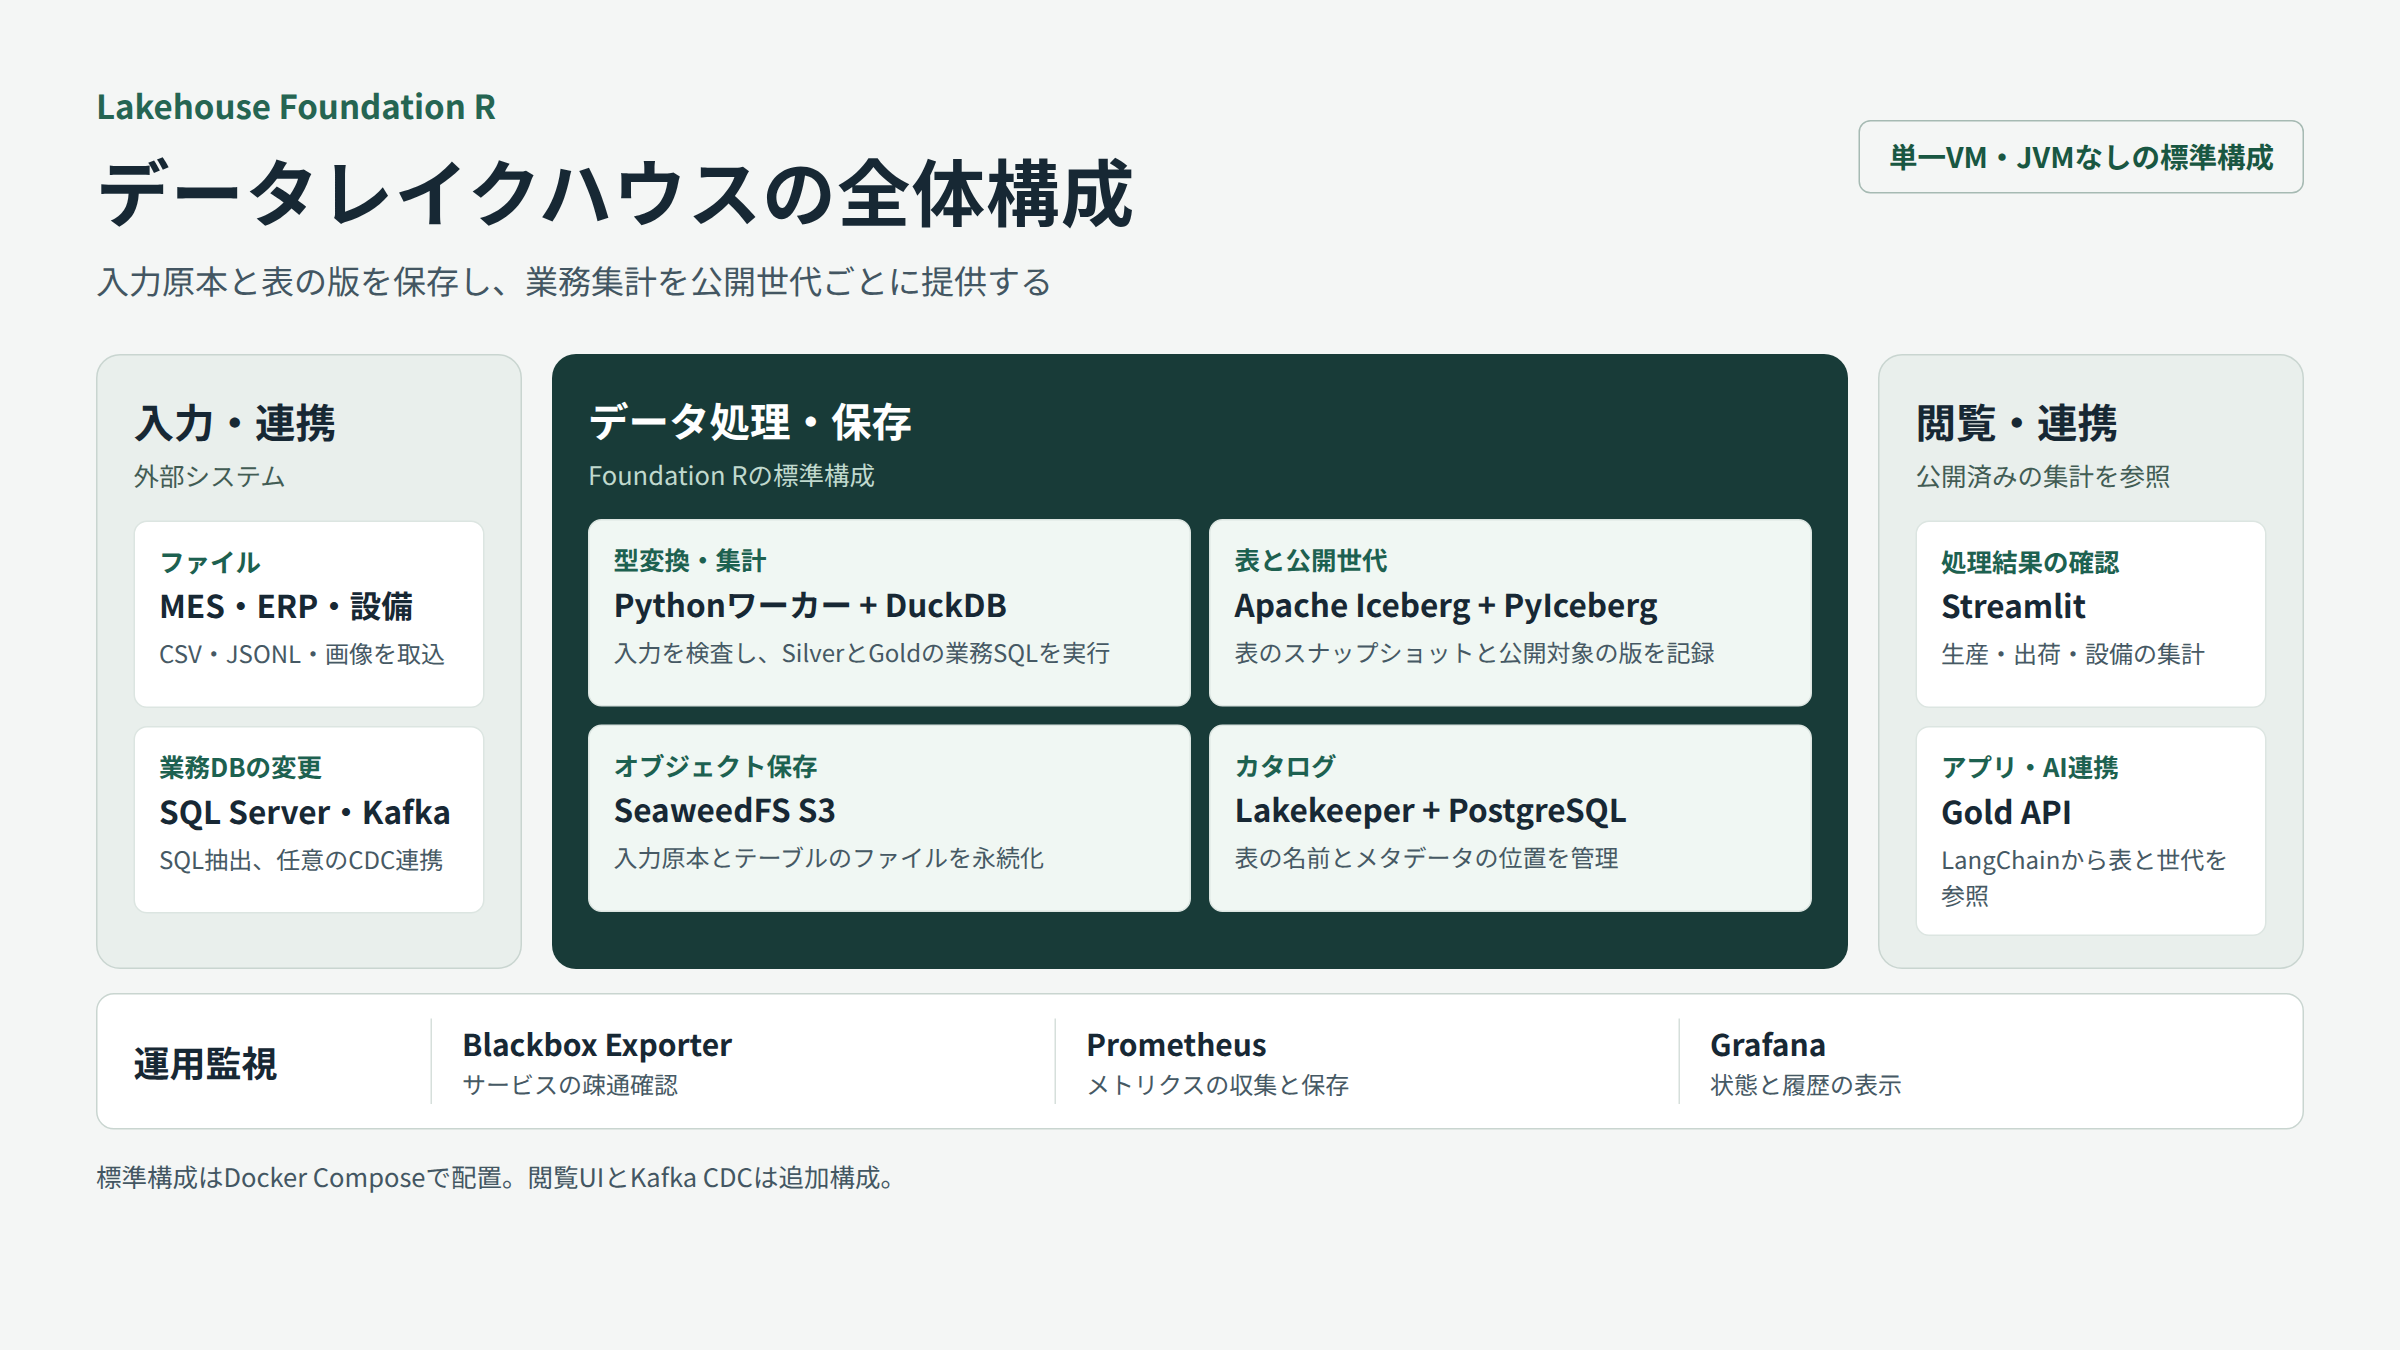
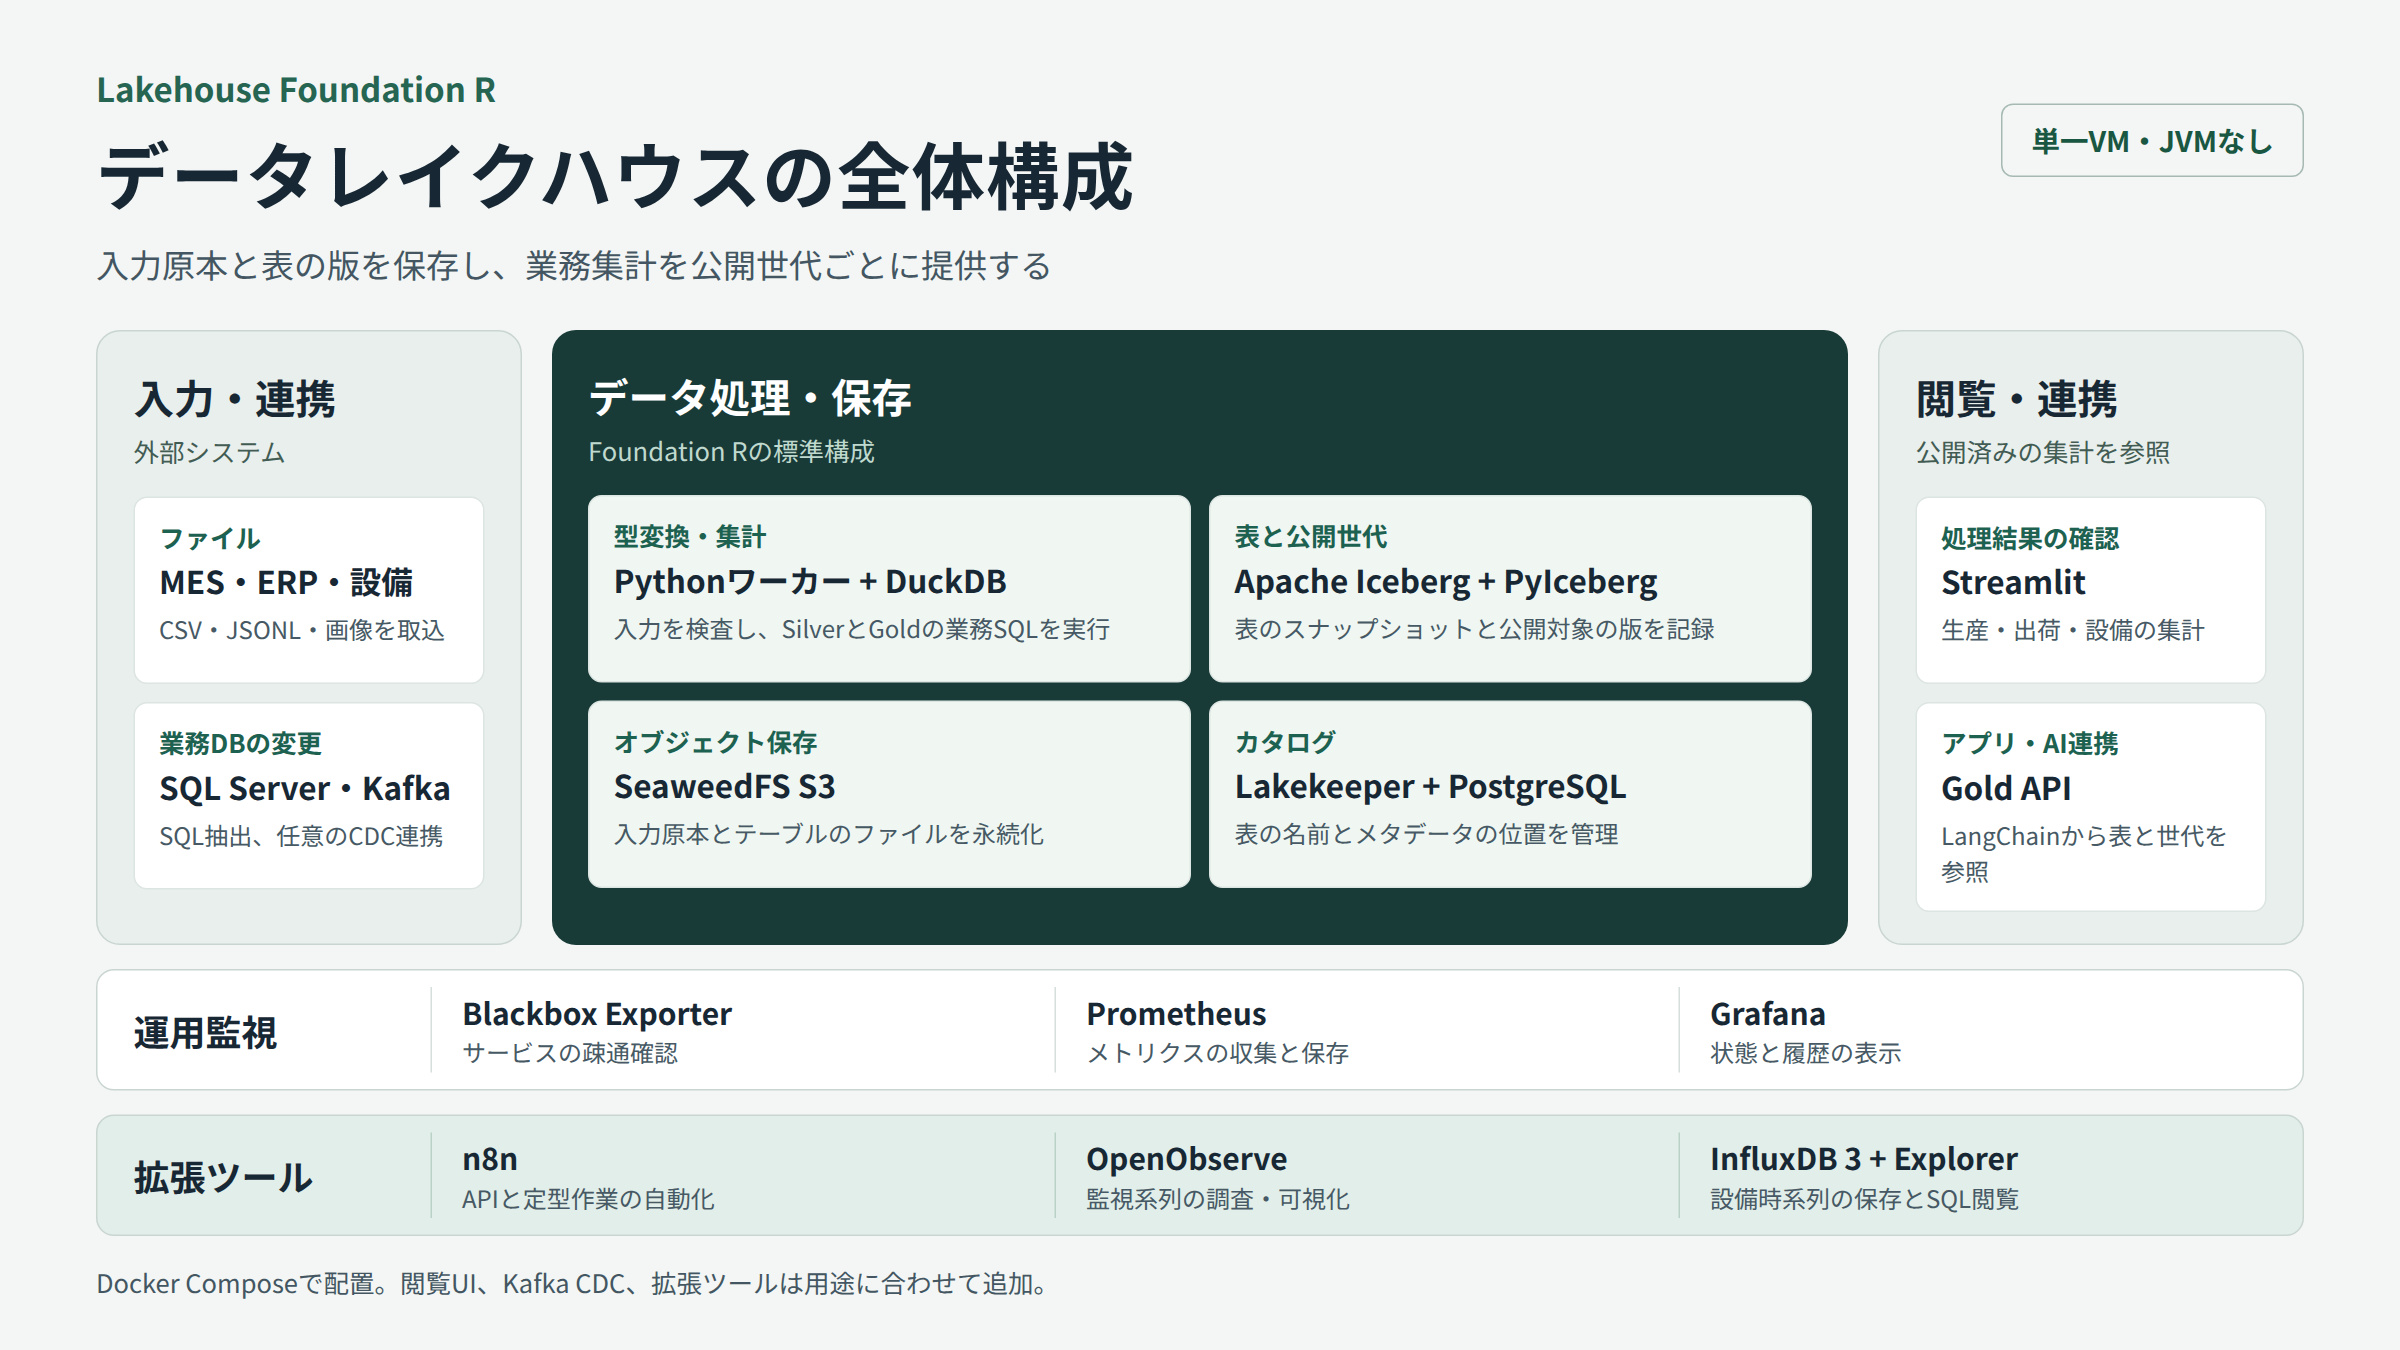
Update the presentation architecture for the tools suite

diff --git a/docs/native/images/foundation-r-overview.html b/docs/native/images/foundation-r-overview.html
@@ -15,7 +15,7 @@
     .slide {
       width: 1600px;
       height: 900px;
-      padding: 54px 64px 35px;
+      padding: 43px 64px 30px;
     }
     header { display: flex; justify-content: space-between; align-items: start; }
     .product { color: #256552; font-size: 22px; font-weight: 700; }
@@ -34,10 +34,10 @@
       display: grid;
       grid-template-columns: 284px 1fr 284px;
       gap: 20px;
-      margin-top: 33px;
+      margin-top: 28px;
     }
     .edge, .core {
-      min-height: 405px;
+      min-height: 394px;
       padding: 24px 24px 21px;
       border-radius: 16px;
     }
@@ -65,11 +65,13 @@
       display: grid;
       grid-template-columns: 222px repeat(3, 1fr);
       align-items: center;
-      min-height: 91px;
+      min-height: 81px;
       border: 1px solid #c9d5d0;
       border-radius: 12px;
       background: #fff;
     }
+    .services { background: #e2eee9; }
+    .services .instrument { border-color: #b9d2c7; }
     .observability h2 { padding-left: 24px; font-size: 24px; }
     .instrument { padding: 2px 20px; border-left: 1px solid #d6dfdb; }
     .instrument strong { display: block; font-size: 20px; }
@@ -85,7 +87,7 @@
         <h1>データレイクハウスの全体構成</h1>
         <div class="summary">入力原本と表の版を保存し、業務集計を公開世代ごとに提供する</div>
       </div>
-      <div class="scope">単一VM・JVMなしの標準構成</div>
+      <div class="scope">単一VM・JVMなし</div>
     </header>
 
     <section class="architecture" aria-label="入力、基盤、利用の責務">
@@ -158,7 +160,14 @@
       <div class="instrument"><strong>Grafana</strong><span>状態と履歴の表示</span></div>
     </section>
 
-    <footer>標準構成はDocker Composeで配置。閲覧UIとKafka CDCは追加構成。</footer>
+    <section class="observability services" aria-label="追加の自動化と時系列調査">
+      <h2>拡張ツール</h2>
+      <div class="instrument"><strong>n8n</strong><span>APIと定型作業の自動化</span></div>
+      <div class="instrument"><strong>OpenObserve</strong><span>監視系列の調査・可視化</span></div>
+      <div class="instrument"><strong>InfluxDB 3 + Explorer</strong><span>設備時系列の保存とSQL閲覧</span></div>
+    </section>
+
+    <footer>Docker Composeで配置。閲覧UI、Kafka CDC、拡張ツールは用途に合わせて追加。</footer>
   </main>
 </body>
 </html>

diff --git a/scripts/check-source.py b/scripts/check-source.py
@@ -26,6 +26,7 @@ REVIEWED_PNG_SHA256 = {
[1 lines of base64/hex data omitted]
     },
     "docs/native/images/foundation-r-overview.png": {
[3 lines of base64/hex data omitted]
     },

diff --git a/README.md b/README.md
@@ -16,7 +16,7 @@
 
 MES・ERP・設備の入力原本を保管し、工場別の日次生産、出荷の充足状況、設備の最新値と1分集計を提供するデータレイクハウスです。標準構成は、JVMを使わずに1台のLinux VMで動きます。
 
-![Foundation Rの入力、処理・保存、閲覧・連携と運用監視の構成](docs/native/images/foundation-r-overview.png)
+![Foundation Rの入力、処理・保存、閲覧・連携、運用監視と拡張ツールの構成](docs/native/images/foundation-r-overview.png)
 
 [プレゼン用PNG（2400×1350）](docs/native/images/foundation-r-overview.png) · [構成図の編集用HTML](docs/native/images/foundation-r-overview.html) · [技術の役割と採用理由](docs/native/ARCHITECTURE.md)
 
